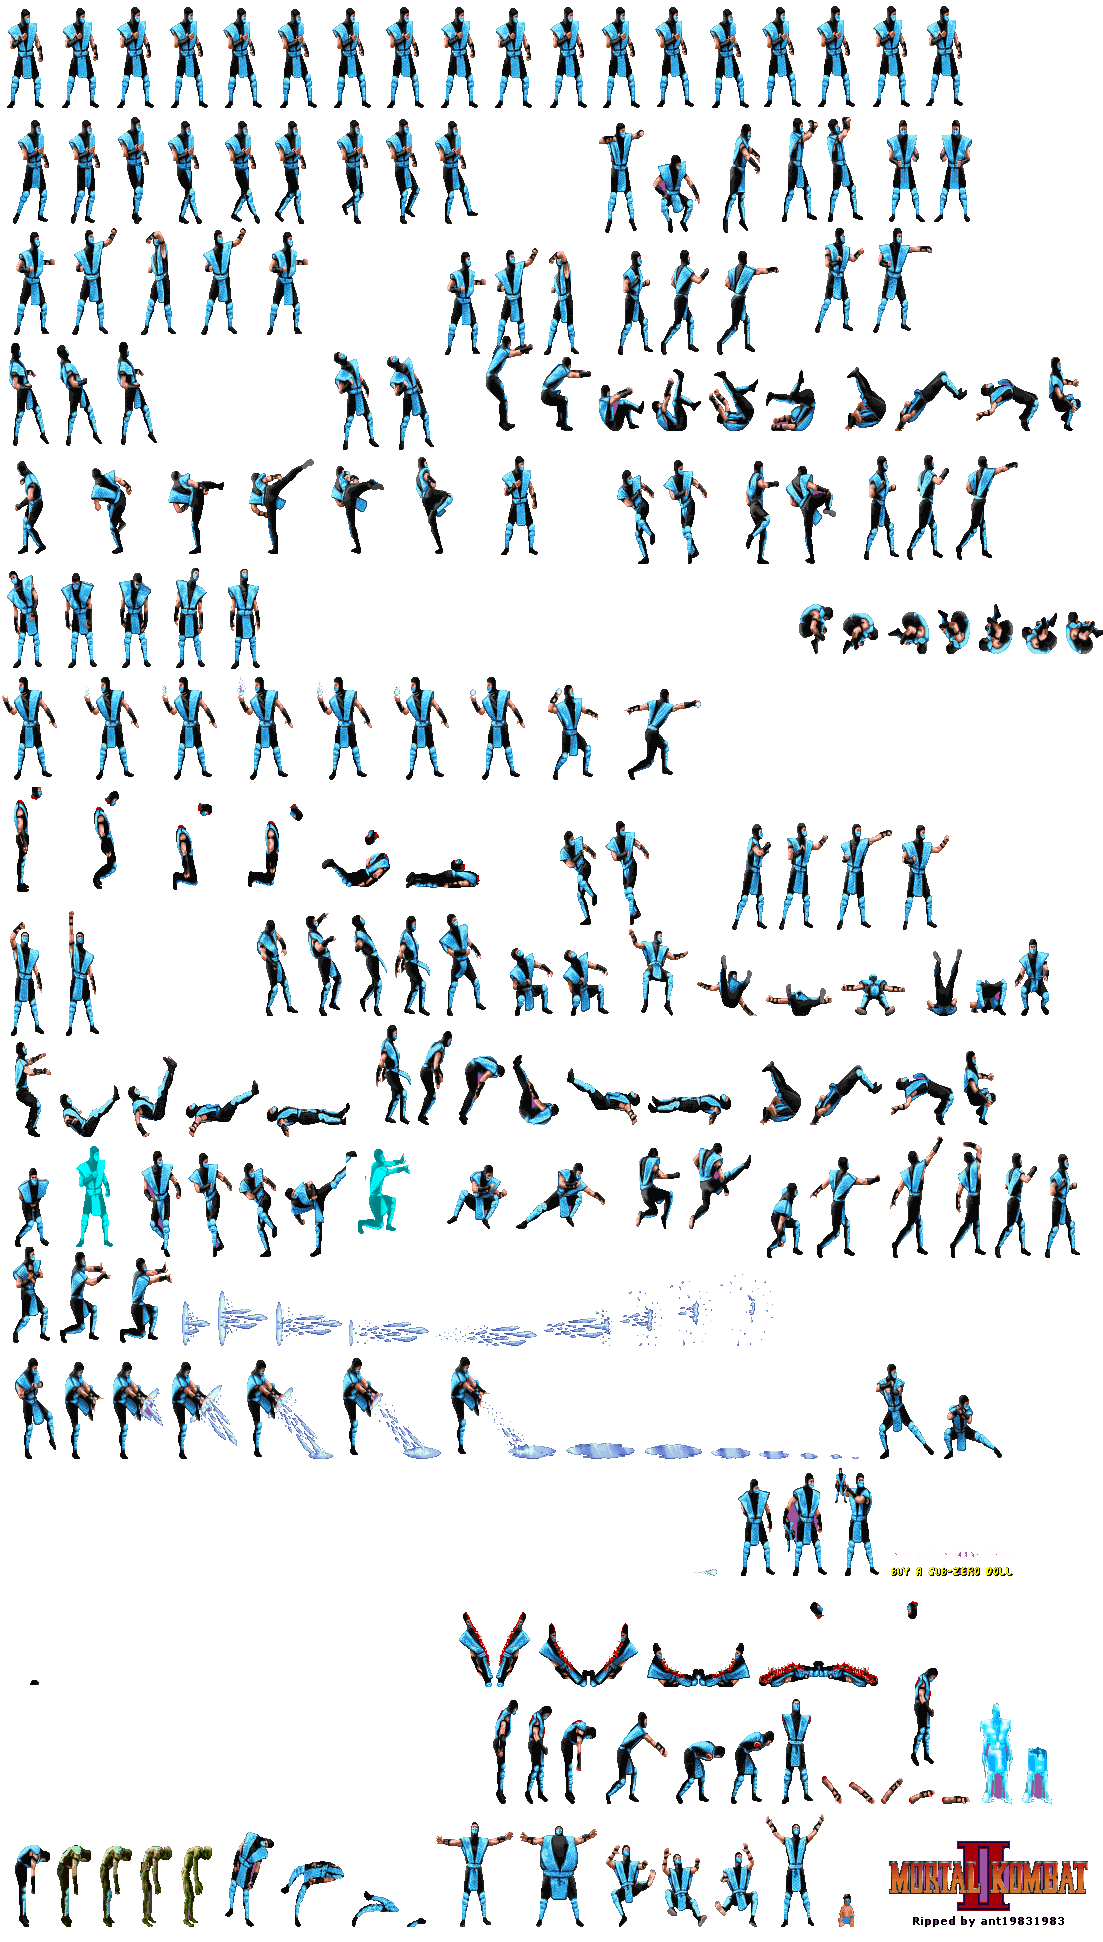
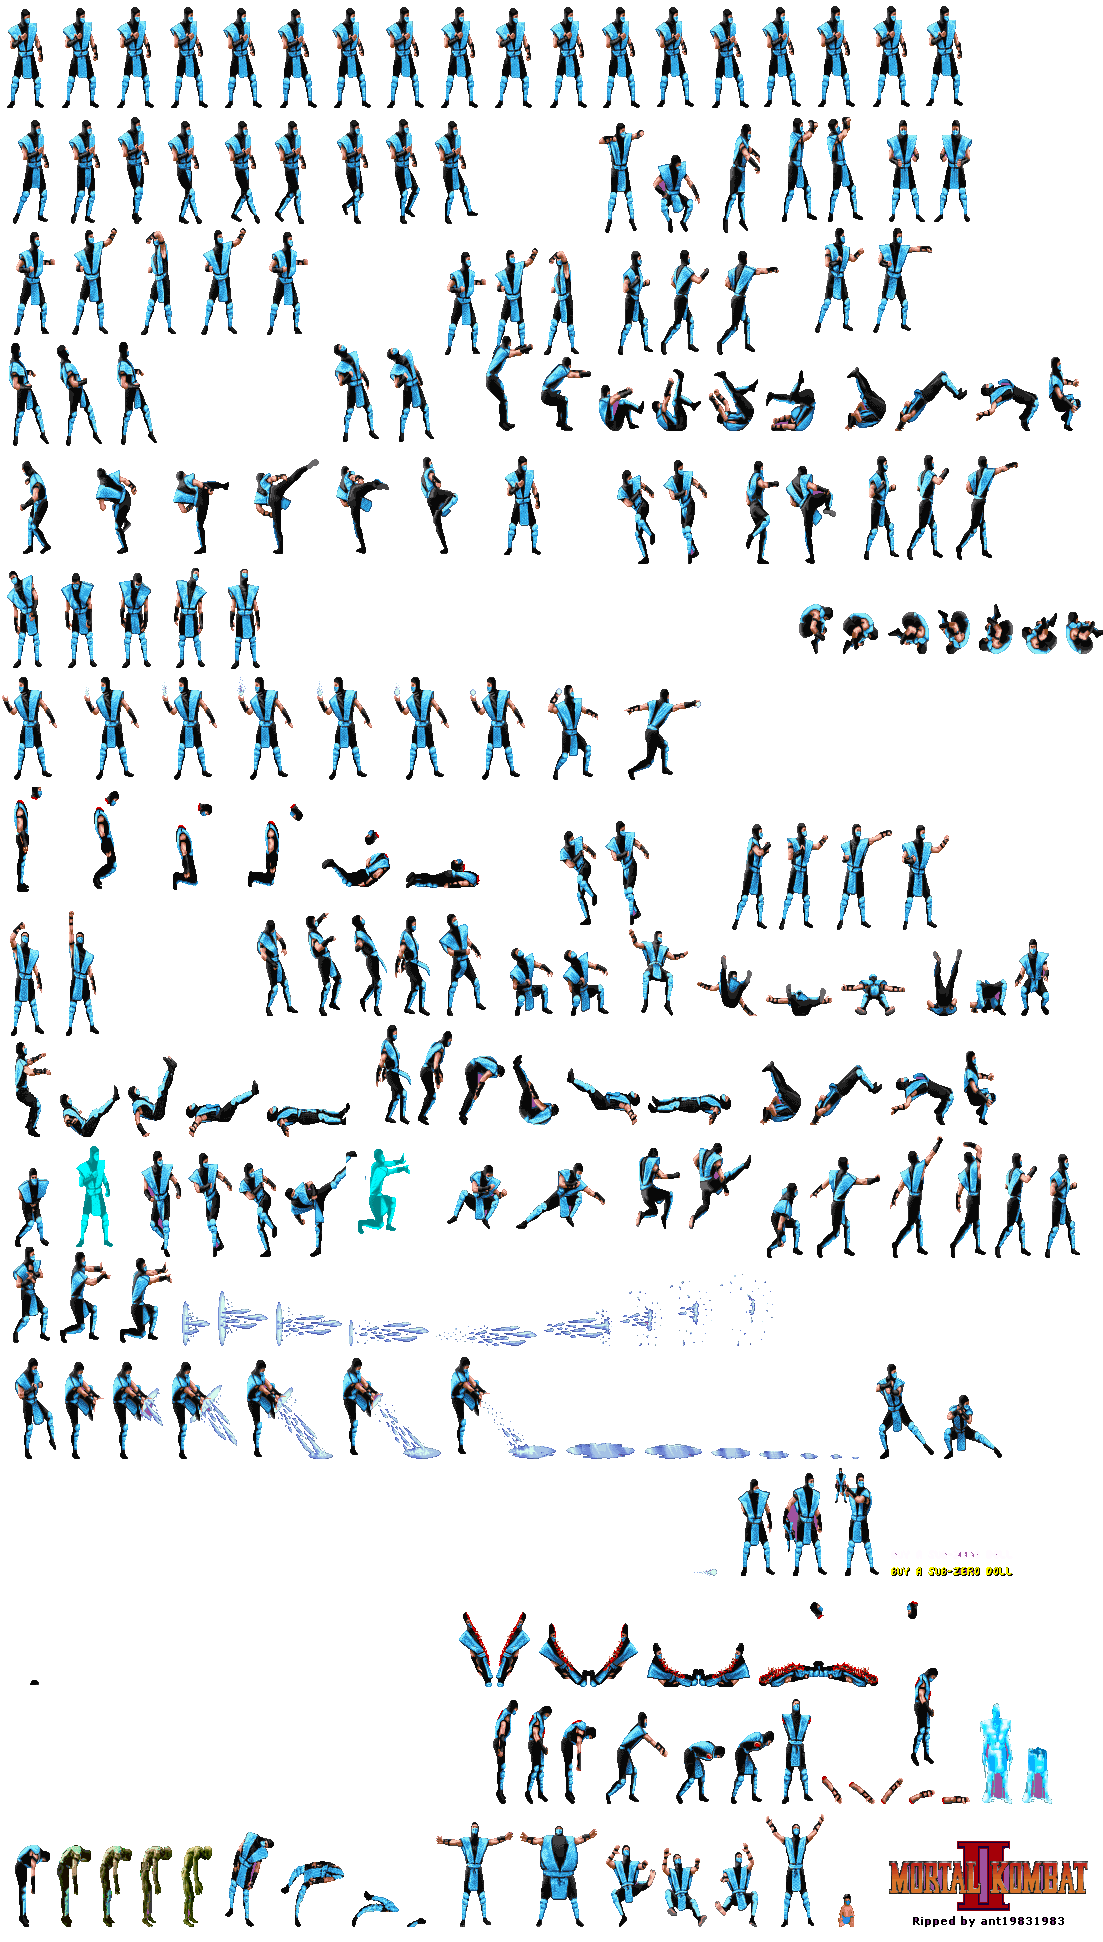
add border level collision and sprite sheet adjustments

diff --git a/core/sprite.c b/core/sprite.c
@@ -11,7 +11,8 @@ void sprite_init(sprite_t* sprite, SDL_Rect sprite_rect)
 {
     sprite->x = sprite_rect.x;
     sprite->y = sprite_rect.y;
-    sprite->sprite_rect = sprite_rect;    
+    sprite->sprite_rect = sprite_rect; 
+    sprite->scale_multiplier = 1;   
     sprite->flip = SDL_FLIP_NONE;
 }
 
@@ -41,7 +42,8 @@ void sprite_draw(SDL_Renderer* renderer, sprite_t* sprite)
 {
     sprite->sprite_rect.x = sprite->x;
     sprite->sprite_rect.y = sprite->y;                                                                      
-    SDL_RenderCopyEx(renderer, sprite->texture, &sprite->texture_rect, &sprite->sprite_rect, 0, NULL, sprite->flip);
+    SDL_Rect new_sprite_rect = create_rect(sprite->x, sprite->y, sprite->sprite_rect.w * sprite->scale_multiplier, sprite->sprite_rect.h * sprite->scale_multiplier);
+    SDL_RenderCopyEx(renderer, sprite->texture, &sprite->texture_rect, &new_sprite_rect, 0, NULL, sprite->flip);
 }
 
 /*

diff --git a/core/sub_zero.c b/core/sub_zero.c
@@ -34,7 +34,7 @@ void sub_zero_hero_init(SDL_Renderer* renderer, hero_t* hero, SDL_Rect sprite_re
     die_anim.name = DIE;
 
     animation_t fatality_anim;
-    animation_init(&fatality_anim, 9, 115, create_rect(0, 672, 78, 112));
+    animation_init(&fatality_anim, 9, 120, create_rect(0, 672, 78, 112));
     animation_set_loop(&fatality_anim, 0);
     fatality_anim.name = FATALITY;
 
@@ -44,7 +44,7 @@ void sub_zero_hero_init(SDL_Renderer* renderer, hero_t* hero, SDL_Rect sprite_re
     get_fatality_anim.name = GET_FATALITY;
 
     animation_t win_anim;
-    animation_init(&win_anim, 1, 160, create_rect(0, 914, 54, 130));
+    animation_init(&win_anim, 1, 160, create_rect(0, 926, 54, 112));
     animation_set_loop(&win_anim, 0);
     win_anim.name = WIN;
 

diff --git a/core/hero.c b/core/hero.c
@@ -94,7 +94,8 @@ void hero_input(SDL_Renderer* renderer, hero_t* hero, int num_keys_pressed, cons
 
 void hero_tick(hero_t* hero, double delta_time) 
 {
-    character_tick(&hero->character, delta_time);
+    if((hero->character.speed.x < 0 && hero->sprite.x > 20) || (hero->character.speed.x > 0 && hero->sprite.x < 560))
+        character_tick(&hero->character, delta_time);
     collider_tick(&hero->collider, hero->sprite.sprite_rect);
     animation_tick(&hero->sprite, &hero->curr_anim);
     

diff --git a/core/header/sprite.h b/core/header/sprite.h
@@ -7,6 +7,7 @@ typedef struct sprite
 {
     int x;
     int y;
+    int scale_multiplier;
     SDL_Texture* texture;
     SDL_Rect sprite_rect;
     SDL_Rect texture_rect;
